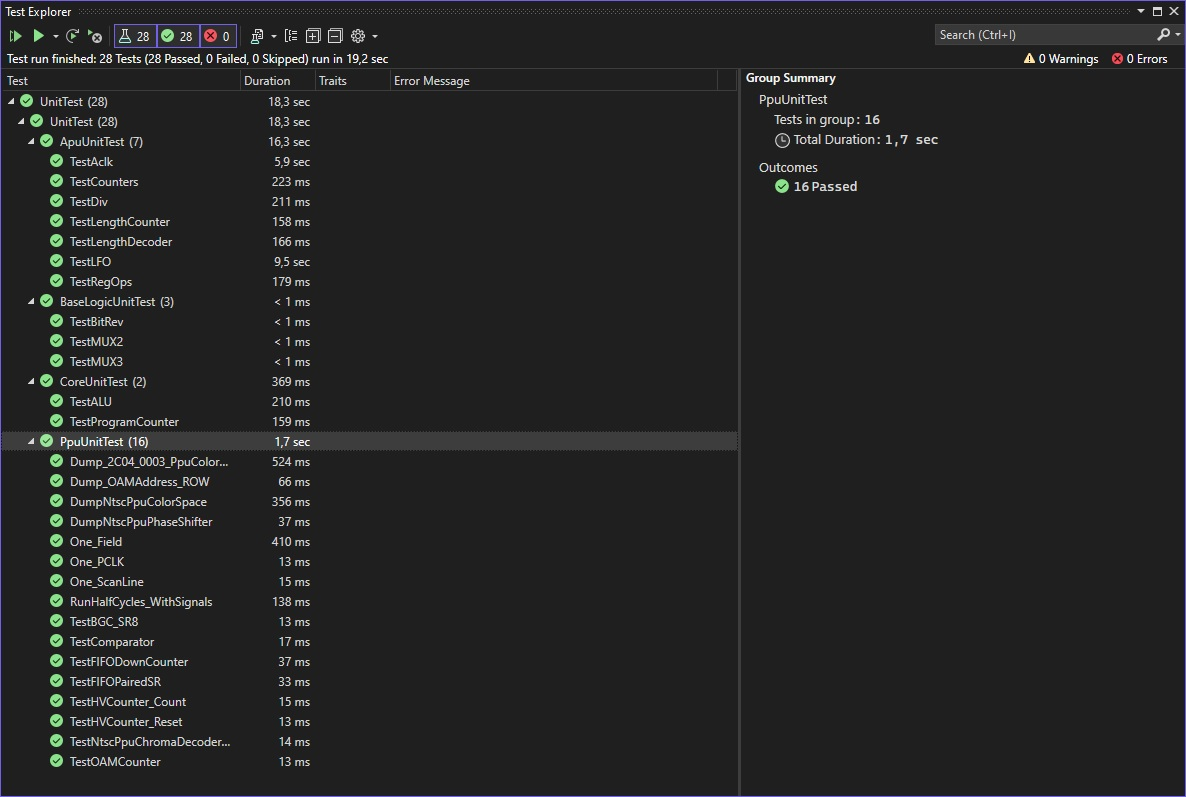
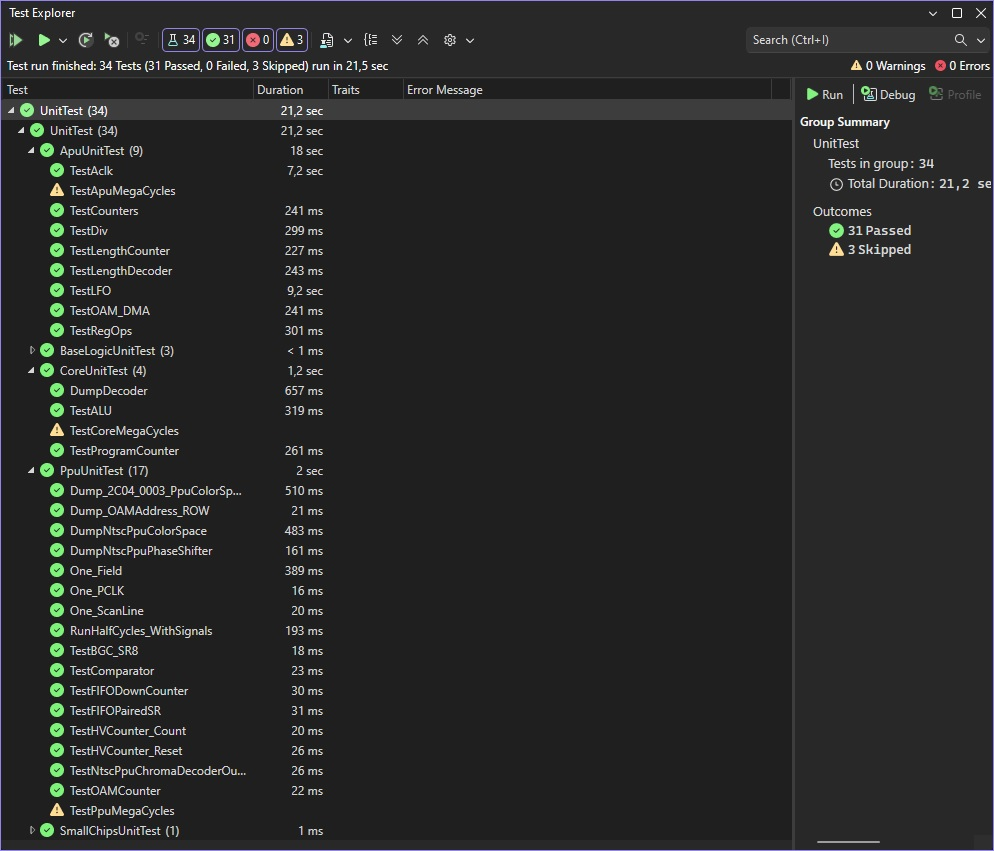
UnitTest ok

Changed region(s): [[0.0, 0.0, 1.0, 1.0], [0.4366, 0.0301, 0.4678, 0.0602]]

diff --git a/UnitTest/UnitTest.cpp b/UnitTest/UnitTest.cpp
@@ -3,6 +3,10 @@
 using namespace Microsoft::VisualStudio::CppUnitTestFramework;
 using namespace BaseLogic;
 
+#ifndef IGNORE_MEGACYCLES
+#define IGNORE_MEGACYCLES 1
+#endif
+
 namespace UnitTest
 {
 	TEST_CLASS(BaseLogicUnitTest)
@@ -83,9 +87,11 @@ namespace UnitTest
 			Assert::IsTrue(ut.DumpDecoder());
 		}
 
-		//BEGIN_TEST_METHOD_ATTRIBUTE(TestCoreMegaCycles)
-		//	TEST_IGNORE()
-		//END_TEST_METHOD_ATTRIBUTE()
+#if IGNORE_MEGACYCLES
+		BEGIN_TEST_METHOD_ATTRIBUTE(TestCoreMegaCycles)
+			TEST_IGNORE()
+		END_TEST_METHOD_ATTRIBUTE()
+#endif
 		TEST_METHOD(TestCoreMegaCycles)
 		{
 			M6502CoreUnitTest::UnitTest ut;
@@ -146,9 +152,11 @@ namespace UnitTest
 			Assert::IsTrue(ut.TestOAM_DMA());
 		}
 
-		//BEGIN_TEST_METHOD_ATTRIBUTE(TestApuMegaCycles)
-		//	TEST_IGNORE()
-		//END_TEST_METHOD_ATTRIBUTE()
+#if IGNORE_MEGACYCLES
+		BEGIN_TEST_METHOD_ATTRIBUTE(TestApuMegaCycles)
+			TEST_IGNORE()
+		END_TEST_METHOD_ATTRIBUTE()
+#endif
 		TEST_METHOD(TestApuMegaCycles)
 		{
 			APUSimUnitTest::UnitTest ut(APUSim::Revision::RP2A03G);
@@ -294,9 +302,11 @@ namespace UnitTest
 			ut.Dump_2C04_0003_ColorSpace();
 		}
 
-		//BEGIN_TEST_METHOD_ATTRIBUTE(TestPpuMegaCycles)
-		//	TEST_IGNORE()
-		//END_TEST_METHOD_ATTRIBUTE()
+#if IGNORE_MEGACYCLES
+		BEGIN_TEST_METHOD_ATTRIBUTE(TestPpuMegaCycles)
+			TEST_IGNORE()
+		END_TEST_METHOD_ATTRIBUTE()
+#endif
 		TEST_METHOD(TestPpuMegaCycles)
 		{
 			PPUSimUnitTest::UnitTest ut(PPUSim::Revision::RP2C02G);

diff --git a/UnitTest/PPUTest.cpp b/UnitTest/PPUTest.cpp
@@ -300,7 +300,7 @@ namespace PPUSimUnitTest
 		CloseFSM(n_EVAL, 104);
 		CloseFSM(E_EV, 105);
 		CloseFSM(I_OAM2, 106);
-		CloseFSM(PAR_O, 107);
+		CloseFSM(OBJ_READ, 107);
 		CloseFSM(n_VIS, 108);
 		CloseFSM(nF_NT, 109);
 		CloseFSM(F_TB, 110);
@@ -445,7 +445,7 @@ namespace PPUSimUnitTest
 		OpenInverseFSM(n_EVAL, 104);
 		OpenDirectFSM(E_EV, 105);
 		OpenDirectFSM(I_OAM2, 106);
-		OpenDirectFSM(PAR_O, 107);
+		OpenDirectFSM(OBJ_READ, 107);
 		OpenInverseFSM(n_VIS, 108);
 		OpenInverseFSM(nF_NT, 109);
 		OpenDirectFSM(F_TB, 110);
@@ -545,7 +545,7 @@ namespace PPUSimUnitTest
 
 		// Reset
 
-		ppu->fsm.PARO = TriState::One;
+		ppu->fsm.OBJ_READ = TriState::One;
 		ppu->eval->OMOUT = TriState::One;
 		ppu->eval->sim_MainCounter();
 
@@ -556,7 +556,7 @@ namespace PPUSimUnitTest
 
 		ppu->eval->OMFG = TriState::Zero;
 		ppu->fsm.BLNK = TriState::One;
-		ppu->fsm.PARO = TriState::Zero;
+		ppu->fsm.OBJ_READ = TriState::Zero;
 
 		for (size_t n = 0; n < 0x100; n++)
 		{
@@ -584,7 +584,7 @@ namespace PPUSimUnitTest
 
 		// Reset
 
-		ppu->fsm.PARO = TriState::One;
+		ppu->fsm.OBJ_READ = TriState::One;
 		ppu->eval->OMOUT = TriState::One;
 		ppu->eval->sim_MainCounter();
 
@@ -595,7 +595,7 @@ namespace PPUSimUnitTest
 
 		ppu->eval->OMFG = TriState::One;
 		ppu->fsm.BLNK = TriState::Zero;
-		ppu->fsm.PARO = TriState::Zero;
+		ppu->fsm.OBJ_READ = TriState::Zero;
 
 		for (size_t n = 0; n < 0x100; n+=4)
 		{
